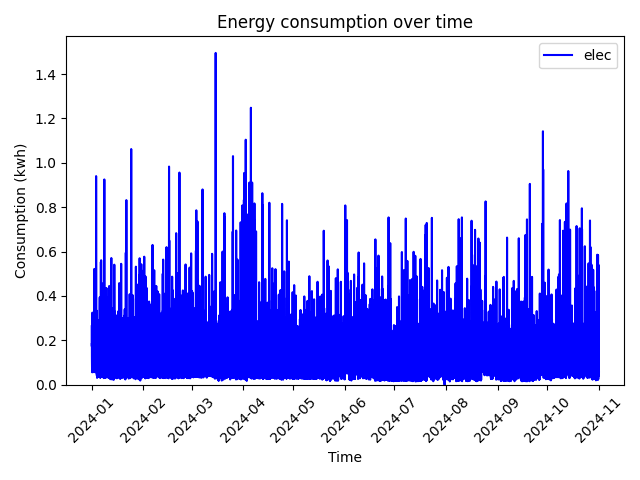
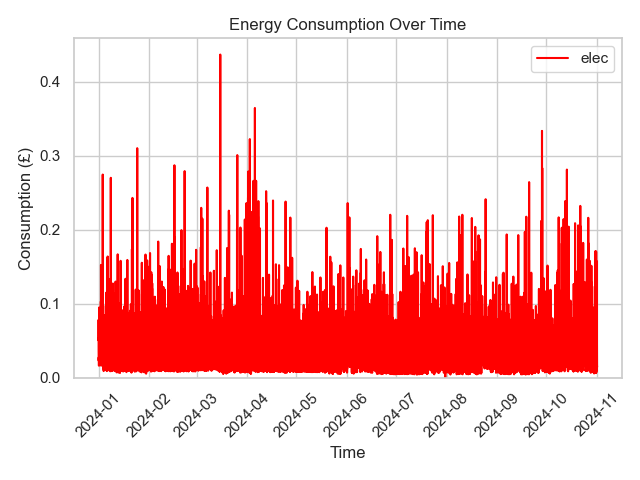
smeter report

diff --git a/smeter_report.py b/smeter_report.py
@@ -1,0 +1,186 @@
+import pandas as pd
+import seaborn as sns
+import matplotlib.pyplot as plt
+
+from reportlab.lib import colors
+from reportlab.lib.pagesizes import letter
+from reportlab.platypus import SimpleDocTemplate, Table, TableStyle, Image, Paragraph, Spacer
+from reportlab.lib.styles import getSampleStyleSheet
+
+# Constants
+GAS_COST_PER_KWH = 0.0731
+GAS_STANDING_CHARGE = 0.2747
+ELEC_COST_PER_KWH = 0.2922
+ELEC_STANDING_CHARGE = 0.42
+
+class PersonalEnergyData():
+    """ Create a PersonalEnergyData object"""
+    def __init__(self, file_path):
+        self.df = pd.read_csv(file_path)
+
+    def preprocess_df(self, column_renames=None, datetime_columns=None):
+        if column_renames:
+            self.df.rename(columns=column_renames, inplace=True)
+        if datetime_columns:
+            for col in datetime_columns:
+                self.df[col] = pd.to_datetime(self.df[col])
+    
+        # Create a new column 'Month' with the month and year information 
+        self.df['Start'] = pd.to_datetime(self.df['Start'], utc=True) # Convert to UTC
+        self.df['Month'] = self.df['Start'].dt.to_period('M')
+
+        # Resample the data to monthly frequency and sum the 'Consumption (kWh)' column
+        self.monthly_data = self.df.groupby('Month')['Consumption (kwh)'].sum().reset_index()
+
+    def cost_data(self, cost_per_kwh):
+        self.df["Consumption (£)"] = self.df['Consumption (kwh)'] * cost_per_kwh
+
+    def standing_charge(self, standing_charge, duration_in_days):
+        return standing_charge * duration_in_days
+
+    def lineplot_for_data(self, name_of_plot, column_to_plot, colour):
+        # Plot the data
+        sns.set(style="whitegrid")
+        sns.lineplot(
+            x='Start',
+            y= column_to_plot,
+            data = self.df,
+            label = name_of_plot,
+            color = colour
+            )
+        plt.title('Energy Consumption Over Time')
+        plt.xlabel('Time')
+        plt.ylabel(column_to_plot)
+        plt.xticks(rotation=45)
+        plt.tight_layout()
+        plt.ylim(0)
+        plt.legend()
+        plt.savefig('plots/{}.png'.format(name_of_plot))
+        plt.clf()
+    
+    def lineplot_for_mon(self, name_of_plot):
+        # Convert 'Month' column to datetime
+        self.monthly_data['Month'] = self.monthly_data['Month'].dt.to_timestamp()
+
+        # Set the 'Month' column as the index
+        self.monthly_data = self.monthly_data.set_index('Month')
+        # Plot the data
+        sns.set(style="whitegrid")
+        sns.scatterplot(
+            x='Month',
+            y= 'Consumption (kwh)',
+            data = self.monthly_data,
+            label = 'Monthly data',
+            color = 'red'
+            )
+        plt.title('Energy Consumption Over Time (months)')
+        plt.xlabel('Time')
+        plt.ylim(0)
+        plt.savefig('plots/{}.png'.format(name_of_plot+'_monthly'))
+        plt.clf()
+
+    
+    def reportdata(self, plottype, standing_charge):
+        # Calculate key statistics
+        total_consumption = self.df['Consumption (kwh)'].sum()
+        average_consumption = self.df['Consumption (kwh)'].mean()
+        max_consumption = self.df['Consumption (kwh)'].max()
+
+        total_consumption_cost = self.df['Consumption (£)'].sum()
+        average_consumption_cost = self.df['Consumption (£)'].mean()
+        max_consumption_cost = self.df['Consumption (£)'].max()
+        total_charge = standing_charge+total_consumption_cost
+
+        # Add key statistics to the report
+        key_statistics = [
+            ["Total Consumption " +str(plottype), f"{total_consumption:.2f} kwh"],
+            ["Average Consumption "+str(plottype), f"{average_consumption:.2f} kwh"],
+            ["Maximum Consumption "+str(plottype), f"{max_consumption:.2f} kwh"],
+            ["Total Consumption " +str(plottype), f"£{total_consumption_cost:.2f}"],
+            ["Average Consumption "+str(plottype), f"£{average_consumption_cost:2f}"],
+            ["Maximum Consumption "+str(plottype), f"£{max_consumption_cost:.2f}"],
+            ["Standing Charge "+str(plottype), f"£{standing_charge:.2f}"],
+            ["Total Charge "+str(plottype), f"£{total_charge:.2f}"]
+        ]
+        return key_statistics, total_charge
+
+def build_report(
+    key_statistics_gas,
+    key_statistics_elec,
+    total_charge_list,
+    ):
+    # Create a PDF report
+    doc = SimpleDocTemplate("reports/report.pdf", pagesize=letter)
+    content = []
+
+    # Add title and subtitle to the report
+    title = "Cost of Energy Consumption Report"
+    content.append(Paragraph(title, getSampleStyleSheet()['Title']))
+    content.append(Spacer(1, 12))
+
+    content.append(Table(key_statistics_elec, colWidths=[200, 100]))
+    content.append(Table(key_statistics_gas, colWidths=[200, 100]))
+    content.append(Table(total_charge_list, colWidths=[200, 100]))
+
+    # Add plot to the report using Image class
+    content.append(Image('plots/elec.png', width=400, height=300))
+    content.append(Image('plots/elec_monthly.png', width=400, height=300))
+    content.append(Image('plots/gas.png', width=400, height=300))
+    content.append(Image('plots/gas_monthly.png', width=400, height=300))
+
+    style = TableStyle([
+        ('BACKGROUND', (0, 0), (-1, 0), colors.lightgrey),
+        ('TEXTCOLOR', (0, 0), (-1, 0), colors.black),
+        ('ALIGN', (0, 0), (-1, -1), 'CENTER'),
+        ('FONTNAME', (0, 0), (-1, 0), 'Helvetica-Bold'),
+        ('BOTTOMPADDING', (0, 0), (-1, 0), 12),
+        ('BACKGROUND', (0, 1), (-1, -1), colors.white),
+        ('GRID', (0, 0), (-1, -1), 1, colors.black),
+    ])
+
+    content[2].setStyle(style)
+    content[3].setStyle(style)
+    content[4].setStyle(style)
+
+    # Build the PDF report
+    doc.build(content)
+
+"""Time"""
+start_time = pd.to_datetime('2024-01-01 00:00:00+00:00')
+end_time = pd.to_datetime('2024-12-30 00:00:00+00:00')
+duration_in_days = (end_time- start_time).days
+
+"""Gas data"""
+file_path_to_data_gas = "data/consumption_gas_2024.csv"
+personal_ener_data_gas = PersonalEnergyData(file_path_to_data_gas)
+personal_ener_data_gas.preprocess_df(column_renames={' Start': 'Start', ' End': 'End'}, datetime_columns=['Start', 'End'])
+personal_ener_data_gas.cost_data(GAS_COST_PER_KWH)
+standing_charge_gas  = personal_ener_data_gas.standing_charge(GAS_STANDING_CHARGE, duration_in_days)
+personal_ener_data_gas.lineplot_for_data("gas", 'Consumption (£)', 'blue')
+key_statistics_gas, total_charge_gas = personal_ener_data_gas.reportdata("gas", standing_charge_gas)
+personal_ener_data_gas.lineplot_for_mon("gas")
+
+"""Electricity"""
+file_path_to_data_elec = "data/consumption_elec_2024.csv"
+personal_ener_data_elec = PersonalEnergyData(file_path_to_data_elec)
+personal_ener_data_elec.preprocess_df(column_renames={' Start': 'Start', ' End': 'End'}, datetime_columns=['Start', 'End'])
+personal_ener_data_elec.cost_data(ELEC_COST_PER_KWH)
+standing_charge_elec = personal_ener_data_elec.standing_charge(ELEC_STANDING_CHARGE, duration_in_days)
+personal_ener_data_elec.lineplot_for_data("elec", 'Consumption (£)', 'red')
+key_statistics_elec, total_charge_elec = personal_ener_data_elec.reportdata("elec", standing_charge_elec)
+personal_ener_data_elec.lineplot_for_mon("elec")
+
+
+"""Totals"""
+total_charge_gas_elec = total_charge_elec+total_charge_gas
+total_charge_list = [
+    ["Total Charge for elec and gas", f"£{total_charge_gas_elec:.2f}"],
+    ["Total Charge for elec and gas (monthly)", f"£{total_charge_gas_elec/12:.2f}"]
+    ]
+
+build_report(
+    key_statistics_gas,
+    key_statistics_elec,
+    total_charge_list,
+    )
+

diff --git a/smeter_data.py b/smeter_data.py
@@ -62,7 +62,7 @@ class SmeterData():
         plt.ylim(0)
         plt.xticks(rotation=45)
         plt.tight_layout()
-        plt.savefig('plots/{}.png'.format(name_plot+'_monthy'))
+        plt.savefig('plots/{}.png'.format(name_plot+'_monthly'))
         plt.clf()
 
 file_path_gas = "data/consumption_gas_2024.csv"
